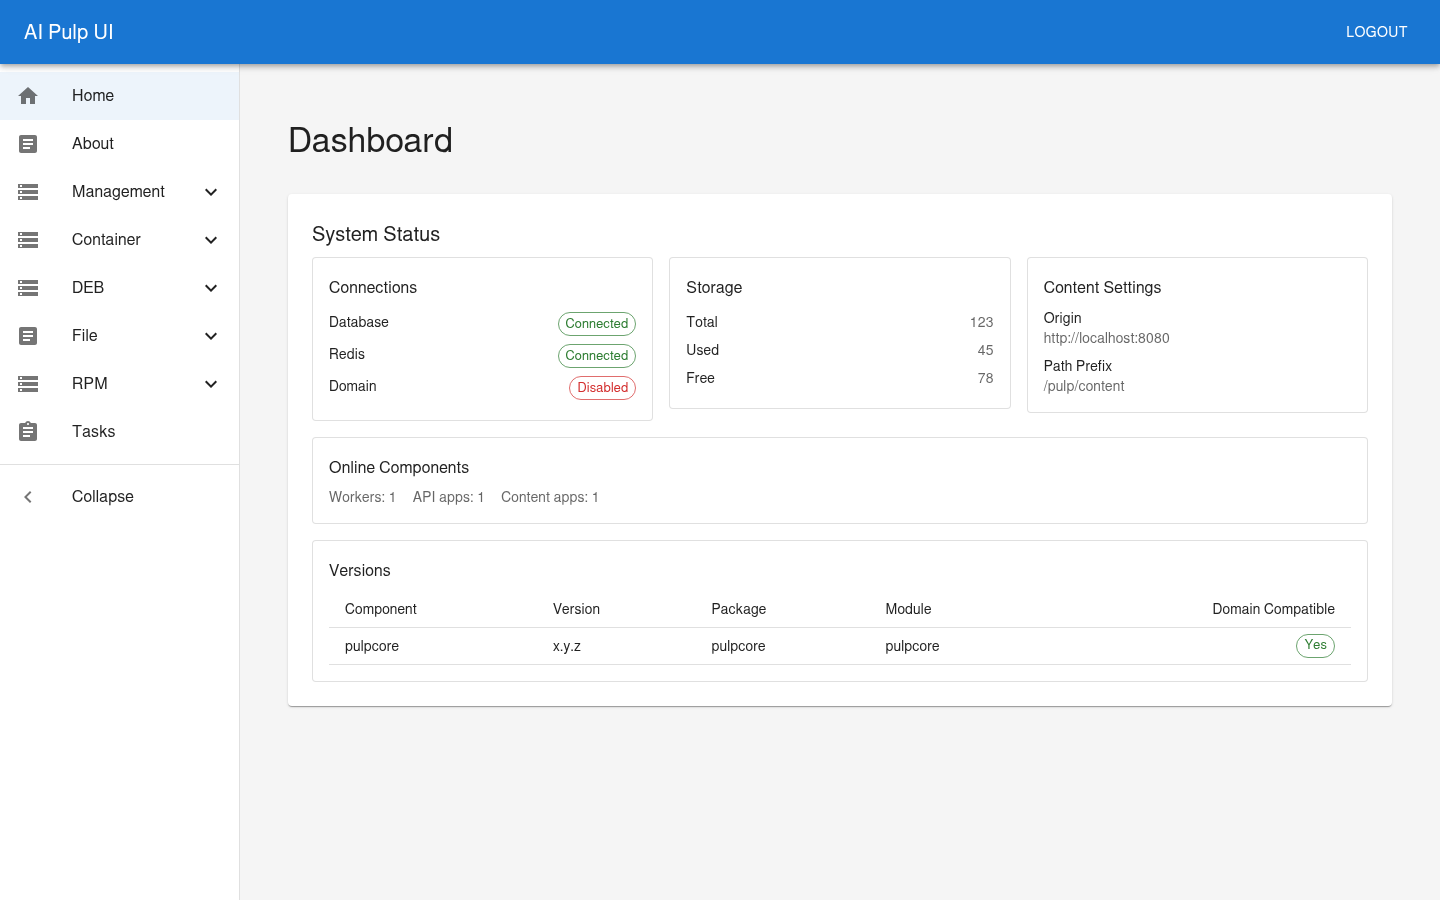
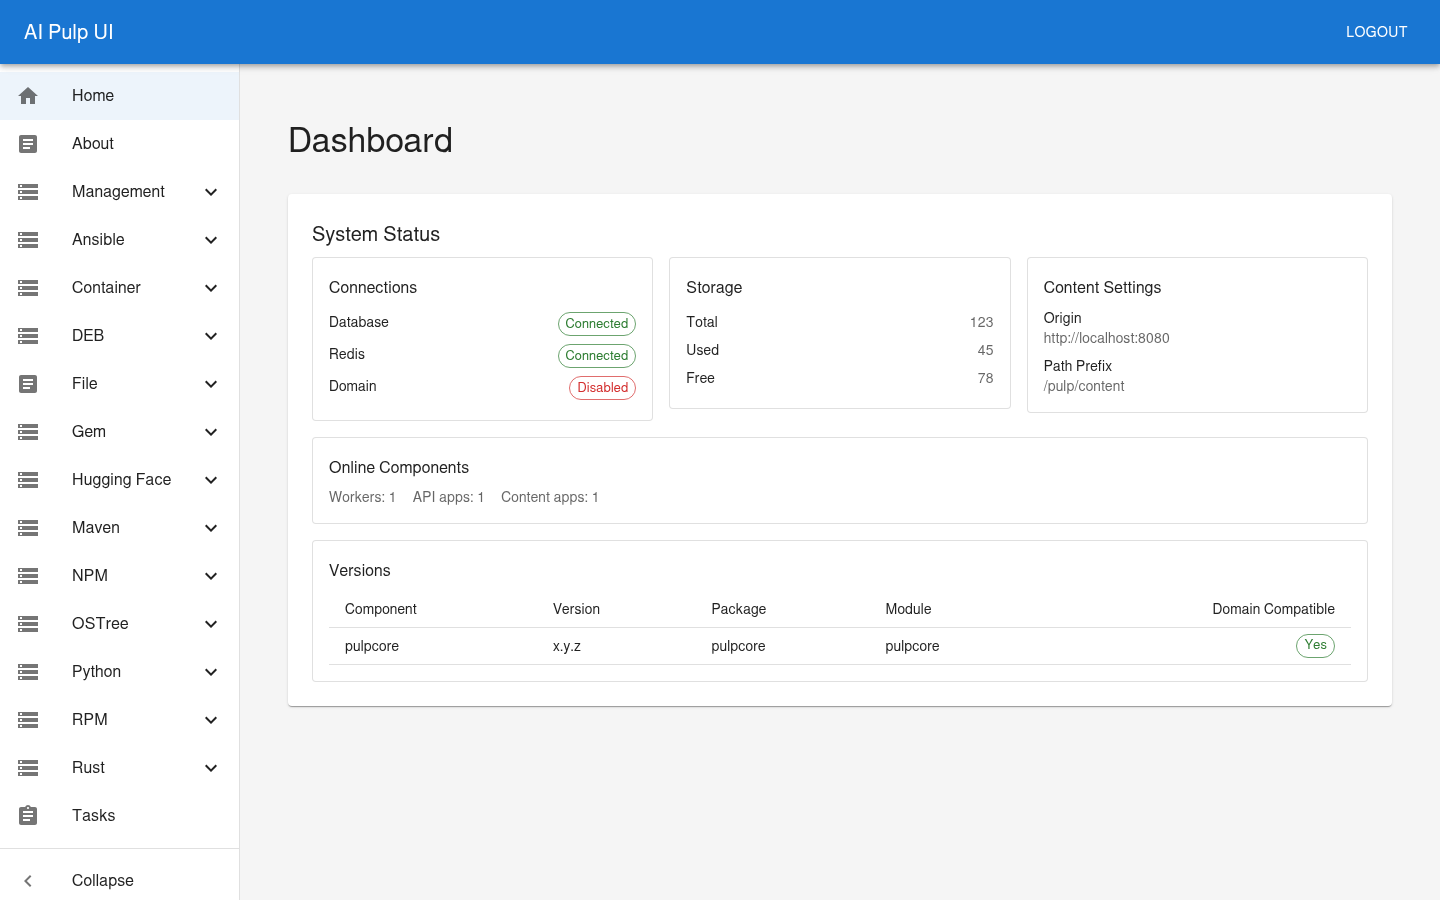
Fixed tests, added screenshots

diff --git a/src/test/DebPlugin.test.tsx b/src/test/DebPlugin.test.tsx
@@ -130,7 +130,7 @@ describe('DEB plugin via generic components', () => {
         ignore_missing_package_indices: false,
       });
     });
-  });
+  }, 20000);
 
   it('does not offer the dropped retain_package_versions field on repositories', async () => {
     vi.mocked(apiService.get).mockResolvedValue(emptyList as any);